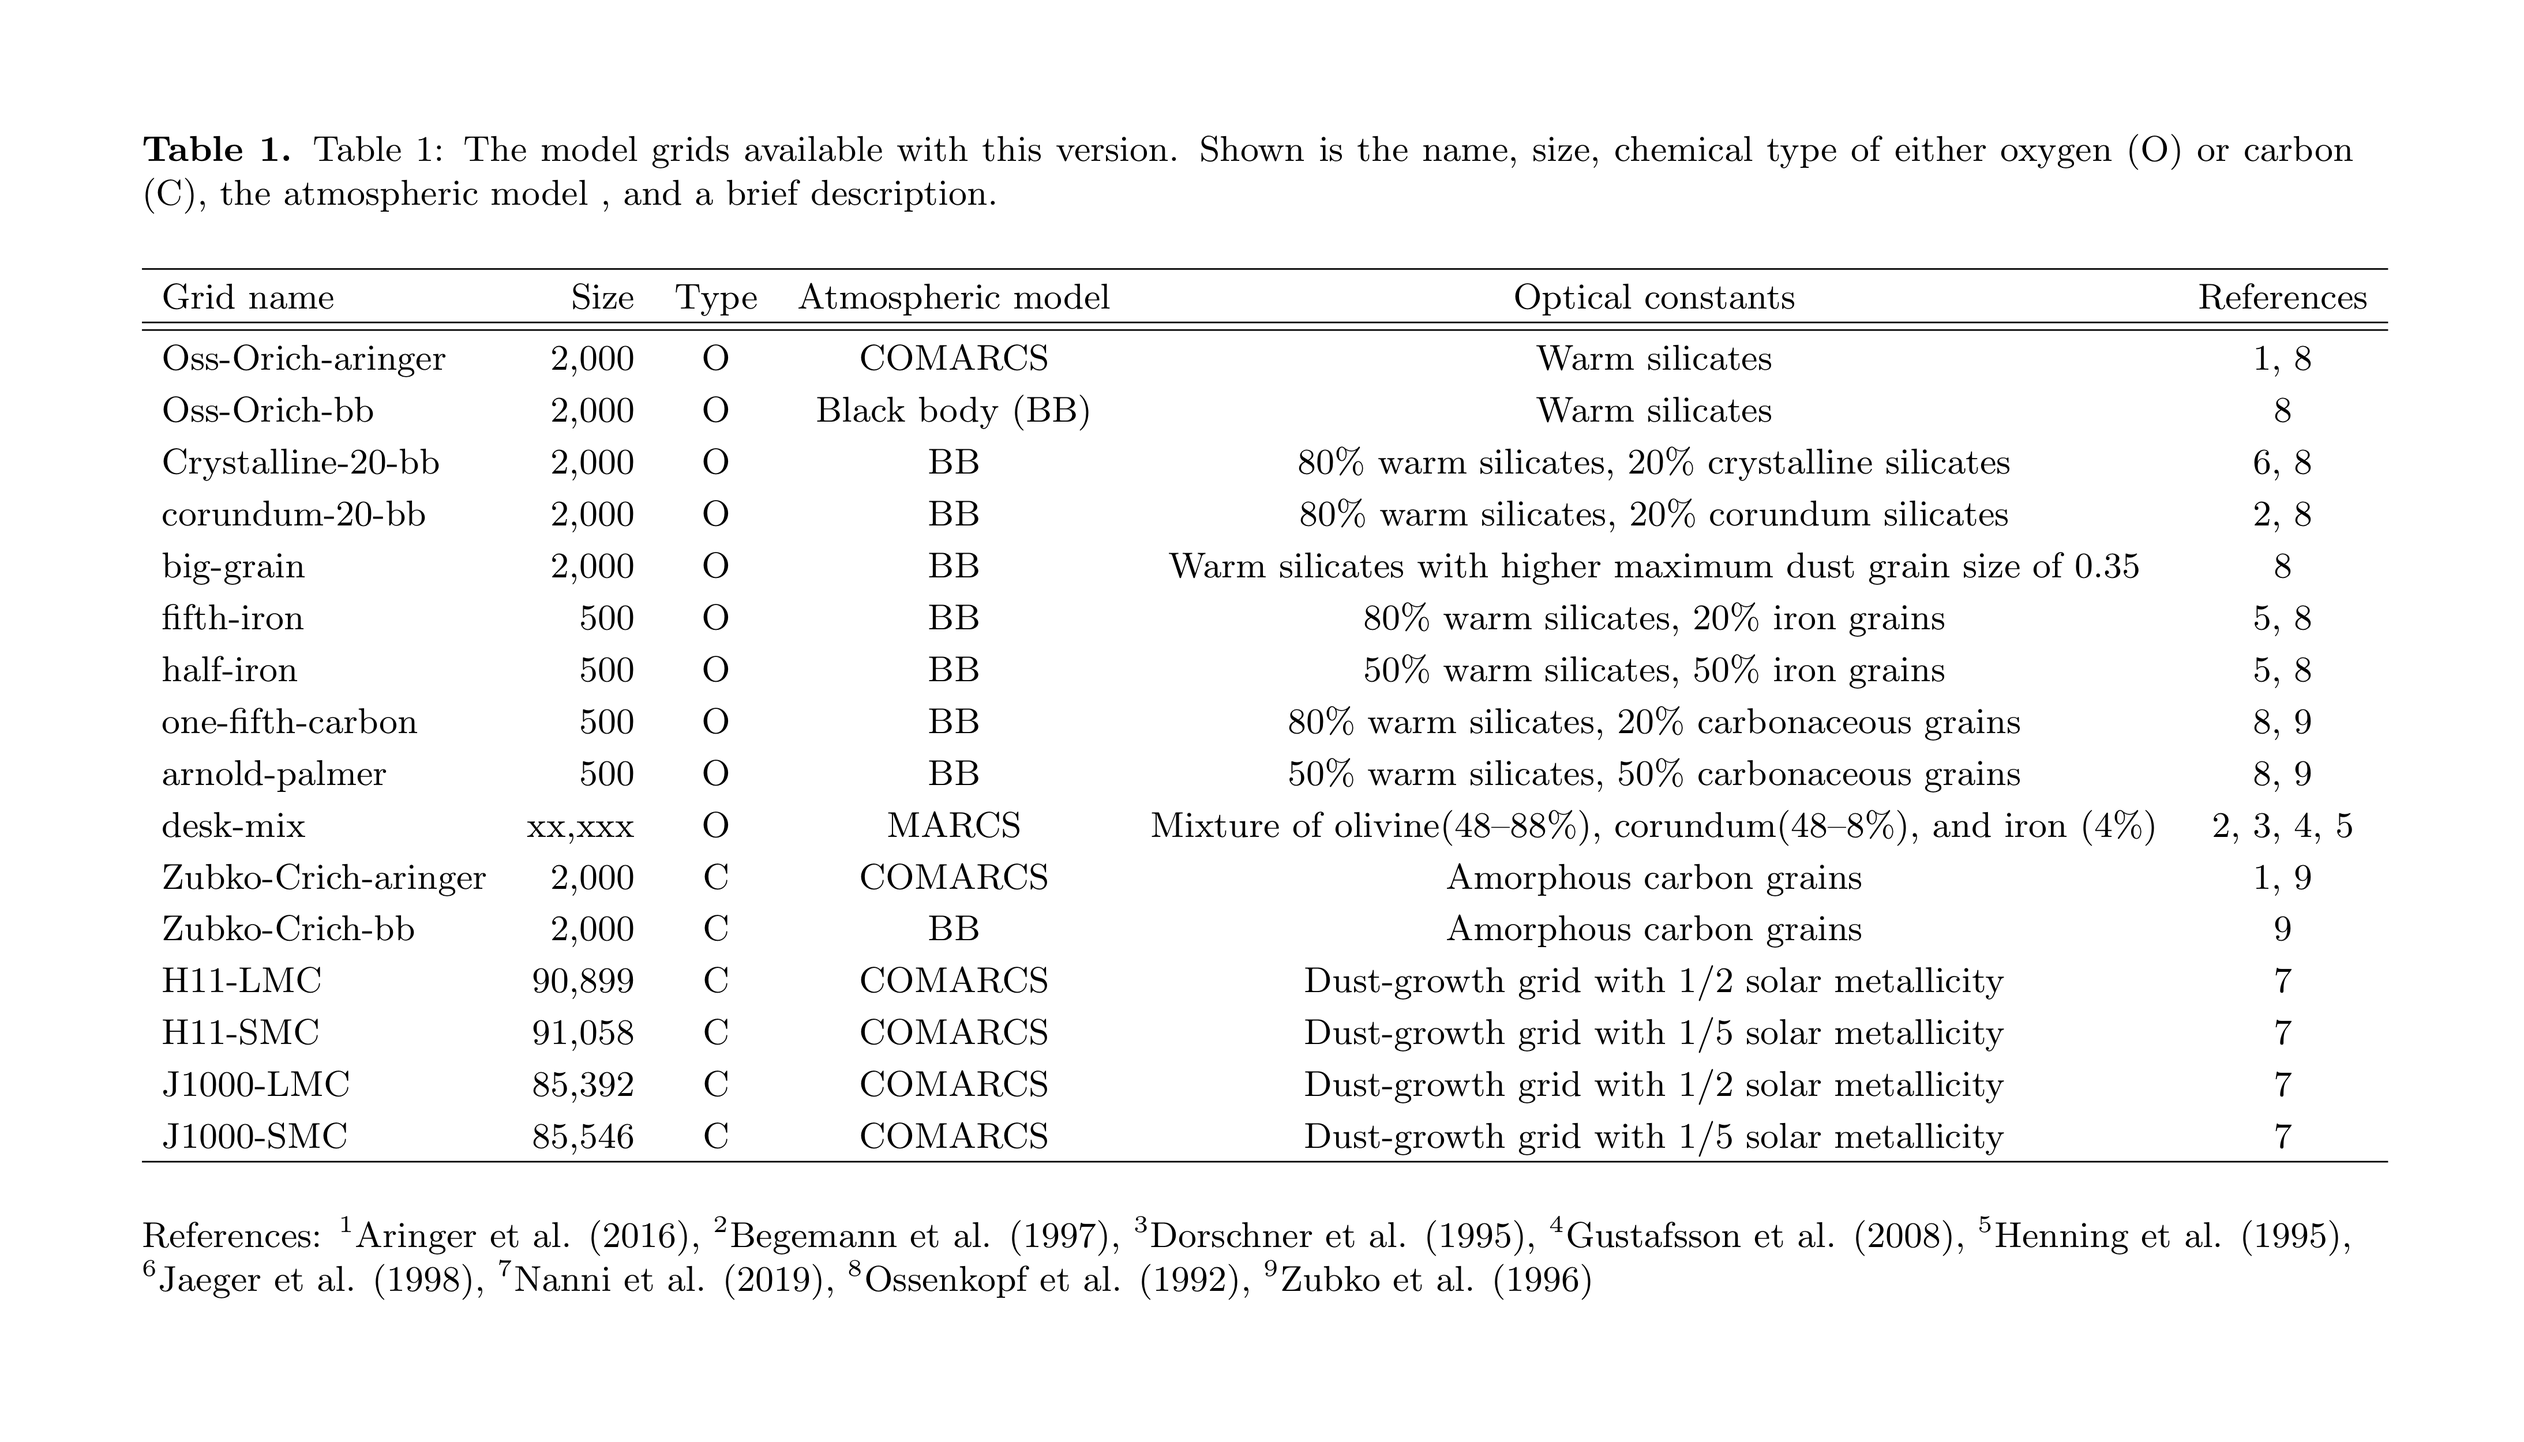
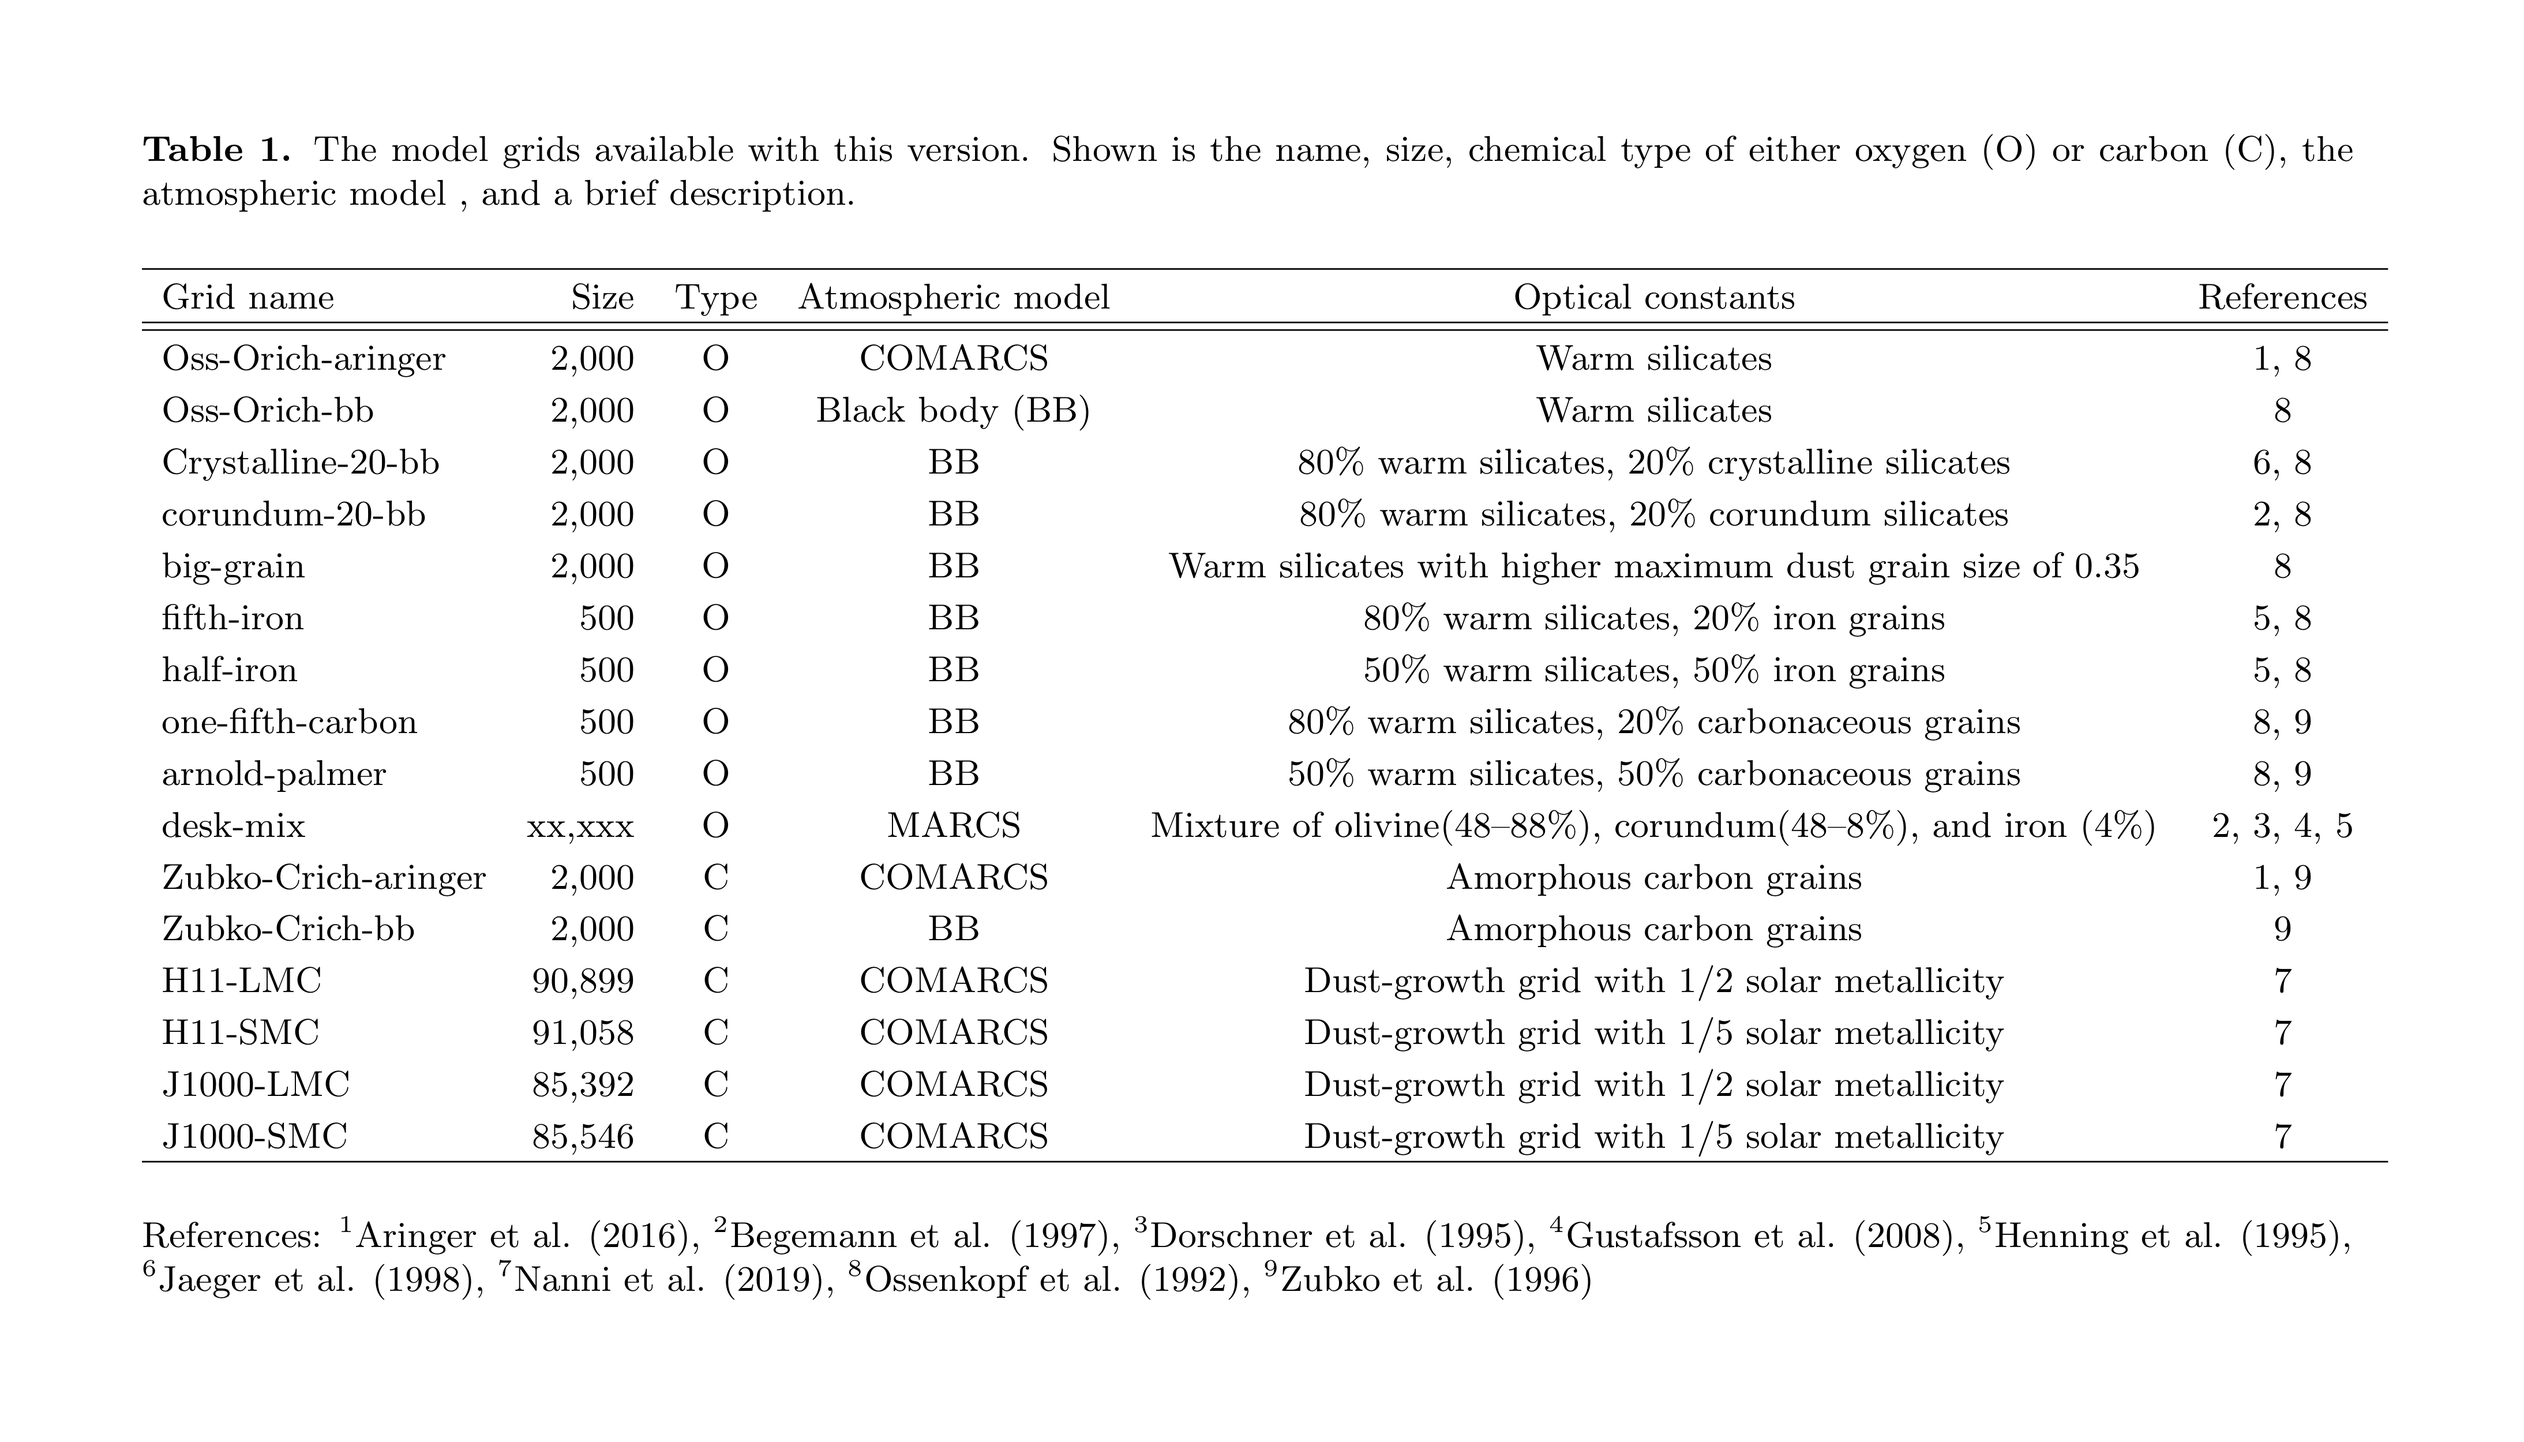
Grid table added.

Changed region(s): [[0.0622, 0.0936, 0.9326, 0.156]]

diff --git a/paper/joss_table.tex b/paper/joss_table.tex
@@ -14,7 +14,7 @@
 \vspace{3cm}
 \begin{table*}
     \centering
-    \caption{Table 1: The model grids available with this version. Shown is the name, size, chemical type of either oxygen (O) or carbon (C), the atmospheric model , and a brief description.}
+    \caption{The model grids available with this version. Shown is the name, size, chemical type of either oxygen (O) or carbon (C), the atmospheric model , and a brief description.}
     % \setlength{\tabcolsep}{0.76em}
     \begin{tabular}{ l r c c c c c}
     \hline
